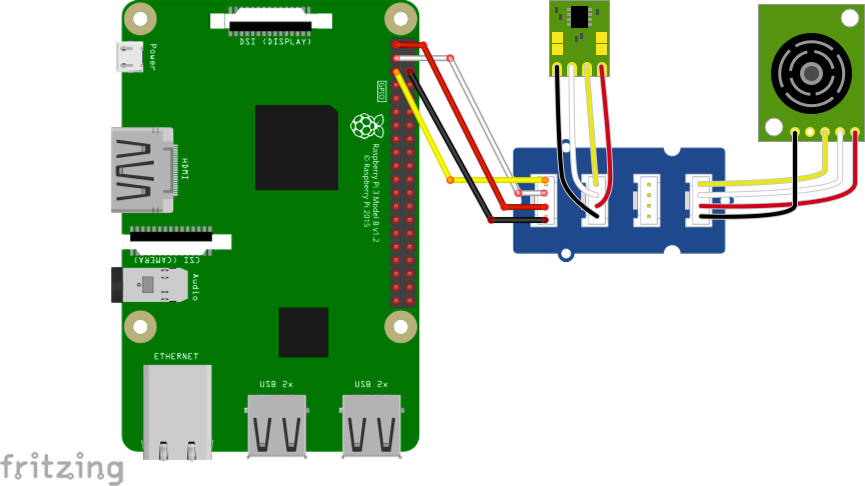
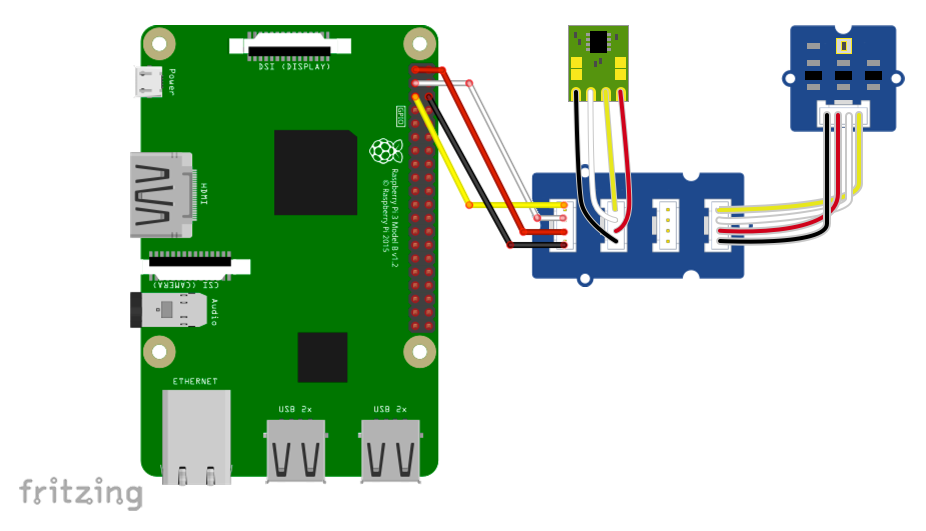
#7 change SRF02 to Grove Light Sesor in i2c-multi-sensors example

Changed region(s): [[0.0, 0.0, 1.0, 1.0]]

diff --git a/gc/i2c/i2c-multi-sensors/index.html b/gc/i2c/i2c-multi-sensors/index.html
@@ -5,7 +5,7 @@
     <meta name="viewport" content="width=device-width, user-scalable=no, initial-scale=1">
     <title>i2c-multi</title>
     <script src="../../polyfill/polyfill.js"></script>
-    <script src="../../drivers/i2c-SRF02.js"></script>
+    <script src="../../drivers/i2c-grove-light.js"></script>
     <script src="../../drivers/i2c-ADT7410.js"></script>
     <script src="./main.js"></script>
     <style>
@@ -23,7 +23,7 @@
     </style>
   </head>
   <body>
-    <P><a href="https://www.seeedstudio.com/Grove-I2C-Hub-p-851.html" target="_blank">1. Grove I2C Hub</a> | <a href="http://akizukidenshi.com/catalog/g/gM-06675/" target="_blank">2. ADT7410 Temperature Sensor Module</a> | <a href="https://www.dfrobot.com/wiki/index.php/SRF02_Ultrasonic_sensor_(SKU:SEN0005)" target="_blank">3. SRF02 Ultrasonic sensor</a></P>
+    <P><a href="https://www.seeedstudio.com/Grove-I2C-Hub-p-851.html" target="_blank">1. Grove I2C Hub</a> | <a href="http://akizukidenshi.com/catalog/g/gM-06675/" target="_blank">2. ADT7410 Temperature Sensor Module</a> | <a href="http://wiki.seeed.cc/Grove-Digital_Light_Sensor/" target="_blank">3. Grove - Digital Light Sensor</a></P>
     <img src="./schematic.png" height="400px">
     <p id="head1">TEST</p>
     <p id="head2">TEST</p>

diff --git a/gc/i2c/i2c-multi-sensors/main.js b/gc/i2c/i2c-multi-sensors/main.js
@@ -6,16 +6,16 @@ window.addEventListener('load', function (){
   
   navigator.requestI2CAccess().then(async (i2cAccess)=>{
     var port = i2cAccess.ports.get(1);
-    var srf02 = new SRF02(port,0x70);
+    var grovelight = new GROVELIGHT(port,0x29);
     var adt7410 = new ADT7410(port,0x48);
-    await srf02.init();
+    await grovelight.init();
     await adt7410.init();
     setInterval(()=>{
-      srf02.read().then((value)=>{
+      grovelight.read().then((value)=>{
 //        console.log('value:', value);
         head1.innerHTML = value;
       },(err)=>{
-        console.log('srf02 error:'+err);
+        console.log('grovelight error:'+err);
       });
       adt7410.read().then((value)=>{
 //        console.log('value:', value);
